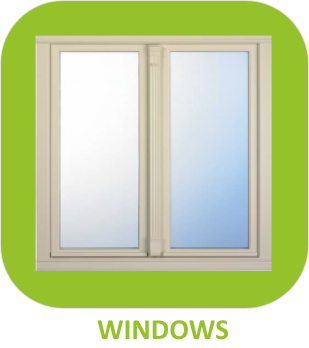
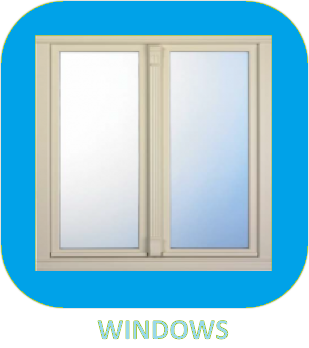
Couleur : bleu

diff --git a/desktop/php/windows.php b/desktop/php/windows.php
@@ -16,10 +16,10 @@ $eqLogics = eqLogic::byType($plugin->getId());
         <div class="eqLogicThumbnailContainer">
             <div class="cursor eqLogicAction" data-action="add"
                 style="text-align: center; background-color : #ffffff; height : 120px;margin-bottom : 10px;padding : 5px;border-radius: 2px;width : 160px;margin-left : 10px;">
-                <i class="fa fa-plus-circle" style="font-size : 6em;color:#94ca02;"></i>
+                <i class="fa fa-plus-circle" style="font-size : 6em;color:#00A9EC;"></i>
                 <br>
                 <span
-                    style="font-size : 1.1em;position:relative; top : 23px;word-break: break-all;white-space: pre-wrap;word-wrap: break-word;color:#94ca02">{{Ajouter}}</span>
+                    style="font-size : 1.1em;position:relative; top : 23px;word-break: break-all;white-space: pre-wrap;word-wrap: break-word;color:#00A9EC">{{Ajouter}}</span>
             </div>
             <div class="cursor eqLogicAction" data-action="gotoPluginConf"
                 style="text-align: center; background-color : #ffffff; height : 120px;margin-bottom : 10px;padding : 5px;border-radius: 2px;width : 160px;margin-left : 10px;">
